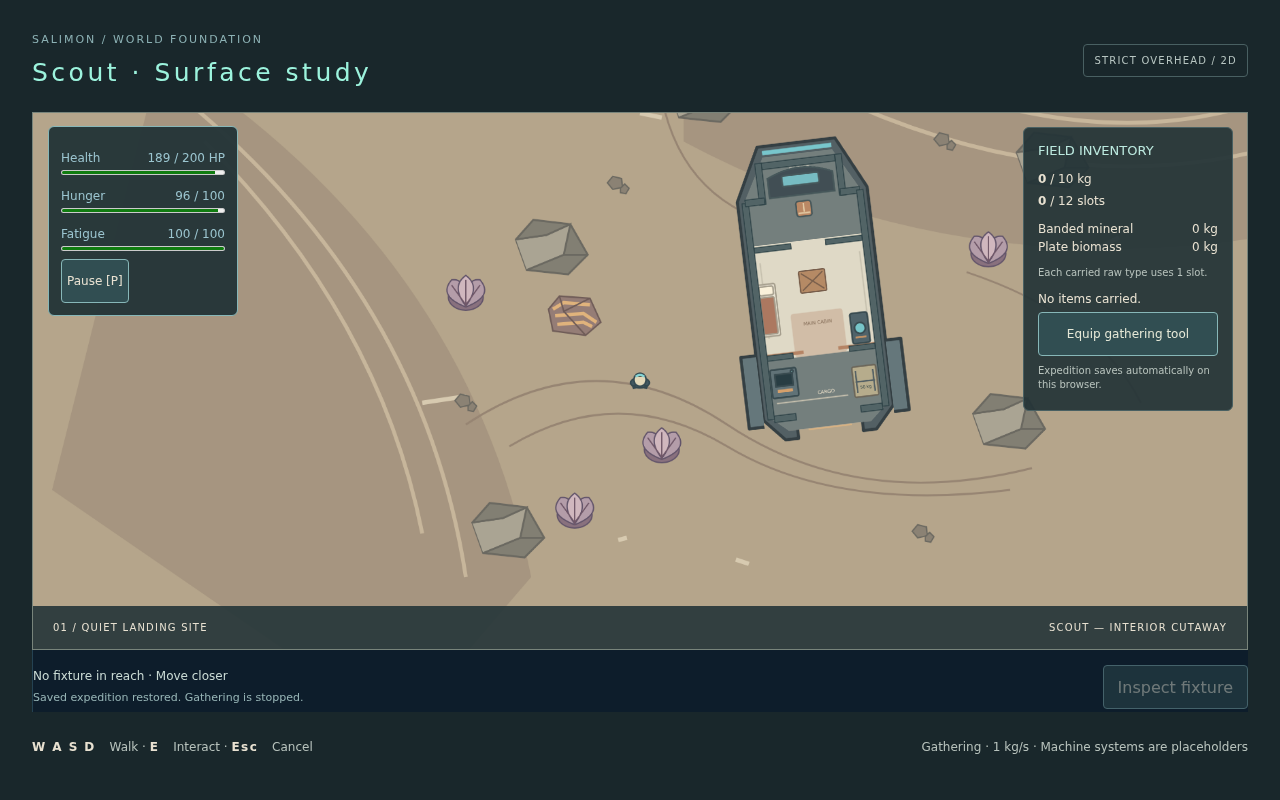
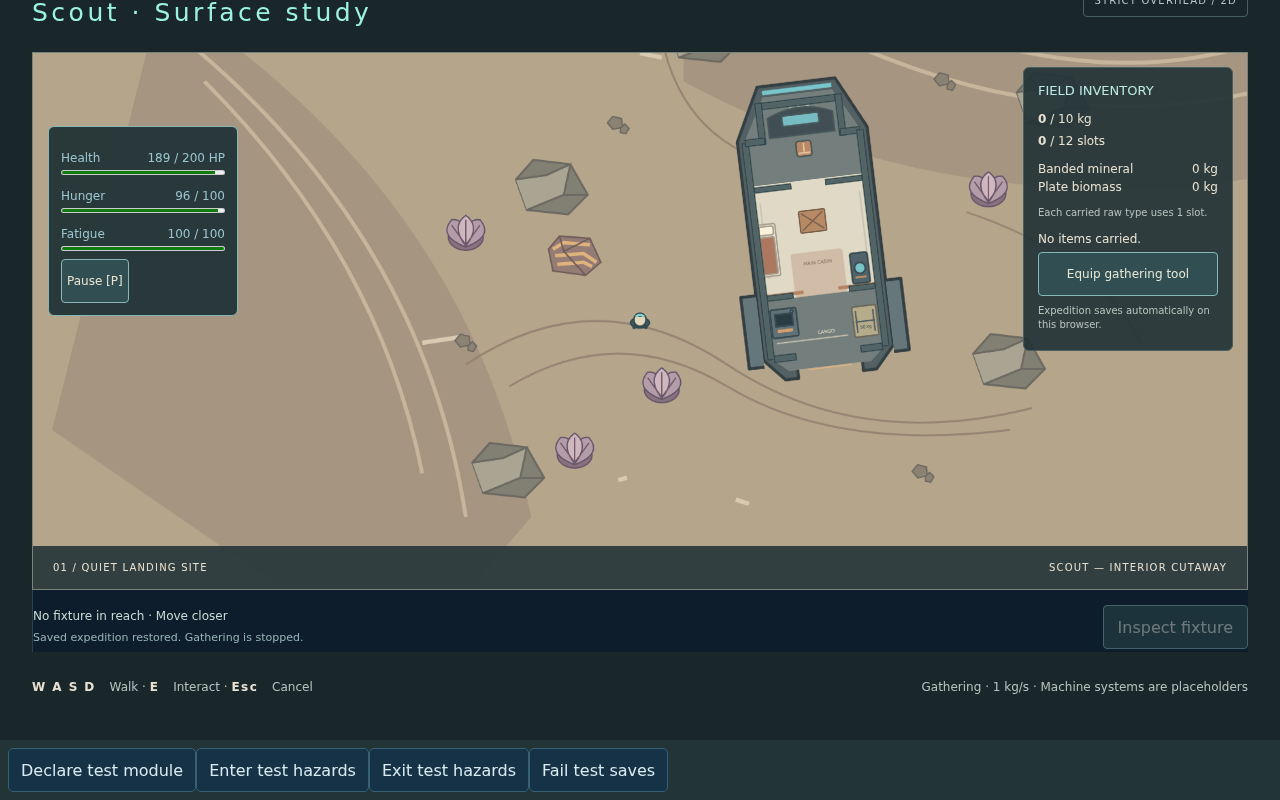
Bind final hazard evidence to precise-health source

diff --git a/reports/issue-788/README.md b/reports/issue-788/README.md
@@ -5,7 +5,7 @@ Implemented the specified temperature/radiation/poison subset in the production
 No wearable equipment, unapproved item masses, planetary strengths or fire rules.
 
 - Base: `main` / `73382e8408f0b7aa1d932d686ed85560845da4da` (merged #800 / prerequisite #787; #783 also merged). No active PR stack existed at discovery or publication preflight.
-- Source branch: `issue-788-hazard-domain`; tested source: `e14041857c6b8818b9836c46fb574403d98acc44`.
+- Source branch: `issue-788-hazard-domain`; tested source: `9553c11969e6212d8d93ac12ad902836f4533be6`.
 - Final PR head/base and current CI/review are bound in the PR review comment. Report-only commits reuse unchanged runtime/test/configuration inputs from [hash manifest](verified-inputs.sha256).
 - Environment: managed Linux 6.18.57 x86_64, Node 24.19.0, npm locked install, Playwright 1.64.1, Chromium 156.0.8078.4. Browser fixture is a separate production Vite build on 4275; ordinary built game on 4175. 1280×800, DPR 1, UTC controlled clock starting 2026-11-04; Playwright synthetic buttons/keyboard. SVG fixture uses CPU rasterization; no hazard rendering or physical-device claim.
 
@@ -19,9 +19,9 @@ No wearable equipment, unapproved item masses, planetary strengths or fire rules
 
 | Category | Exact command/procedure | Actual result |
 | --- | --- | --- |
-| Unit + integration (mandatory) | `cd client && npm test` | PASS: 124/124; [original log](unit.log). Includes real ResourceSession + storage failure/stale injection, exact reload, migration and terminal reset |
+| Unit + integration (mandatory) | `cd client && npm test` | PASS: 125/125; [original log](unit.log). Includes real ResourceSession + storage failure/stale injection, exact reload, migration and terminal reset |
 | Build (mandatory) | `cd client && npm run build` | PASS: TypeScript + Vite; [original log](build.log). Existing large-bundle advisory remains |
-| Focused built E2E | `cd client && npm run test:browser -- --project=cockpit hazards.spec.ts` | PASS: 2/2; [log](browser-focused.log), [original results](browser-focused-results.json), [original numerical records](hazard-records.json). Final source unit/build/focused browser rerun after the HUD correction |
+| Focused built E2E | `cd client && npm run test:browser -- --project=cockpit hazards.spec.ts` | PASS: 2/2; [log](browser-focused.log), [original results](browser-focused-results.json), [original numerical records](hazard-records.json). Final source unit/build/focused browser rerun after the HUD correction and numeric underflow regression |
 | Full browser / existing CI gates (mandatory) | Navigation client workflow: full `npm run test:browser`, navigation negative, visual repeat/negative, baseline approval | Pending at initial publication; current results linked in PR review comment |
 | Visual | N/A to new domain: no hazard presentation. Existing navigation visual/repeat/negative gates retained in CI | No baseline promotion; automatic final captures retained as [fixture](fixture-final.png) / [normal game](normal-game.png), not approved baselines |
 | Manual/hardware | N/A to deterministic browser-local domain; real planetary sampling, balancing and hardware performance outside this issue | No qualification claimed |
@@ -30,7 +30,7 @@ Initial iteration found an unconnected damage callback, old-schema test fixtures
 retaining the new hazards key, strict TypeScript errors and two incorrect test
 expectations. Those were corrected before the passing source checks above.
 The first shell test attempts also used the repository root instead of `client`;
-they exercised no code. Same-session capture review also found [fractional HP label overflow](fixture-initial-label-overflow.png); the HUD now rounds its existing display up to whole HP while meter/save arithmetic stays exact. The affected checks were rerun successfully and final capture inspected. No failure was waived or baseline changed. The branch
+they exercised no code. Same-session capture review also found [fractional HP label overflow](fixture-initial-label-overflow.png); the HUD now rounds its existing display up to whole HP while meter/save arithmetic stays exact. Review also added an exact-HP numeric-underflow regression, preserving positive liveness without changing the rational authority. The affected checks were rerun successfully and final capture inspected. No failure was waived or baseline changed. The branch
 protection API returned HTTP 403 (integration lacks access); the existing workflow
 checks remain the observable acceptance gates, not a claim to have audited hidden
 repository rules. The accessible `rules/branches/main` endpoint returned an empty ruleset list.
